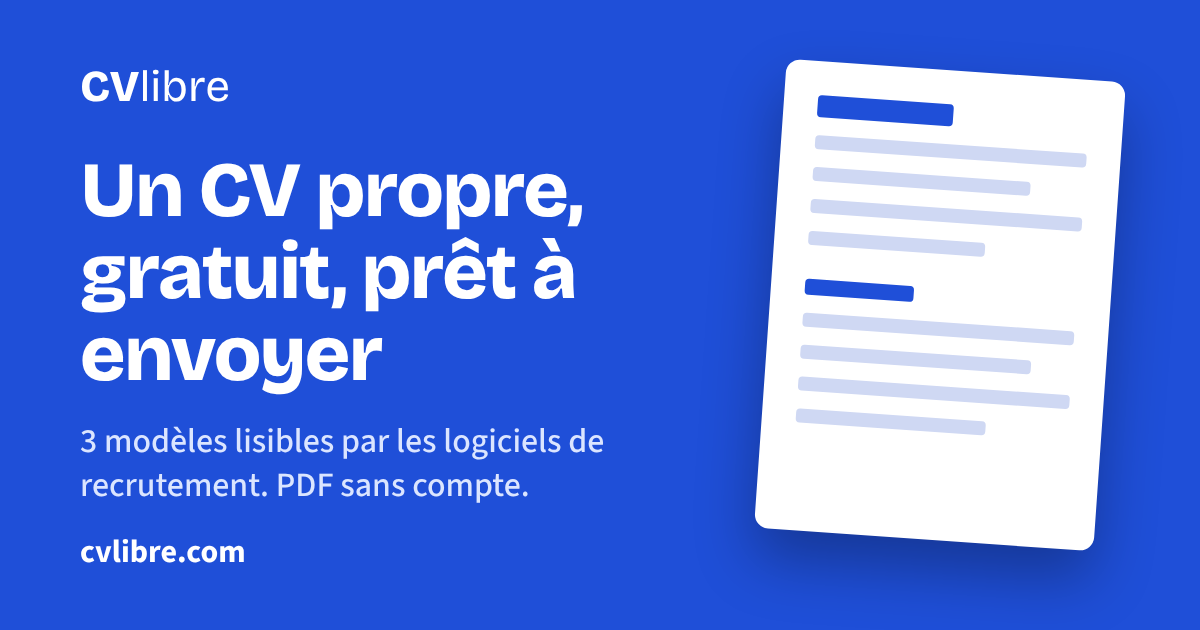
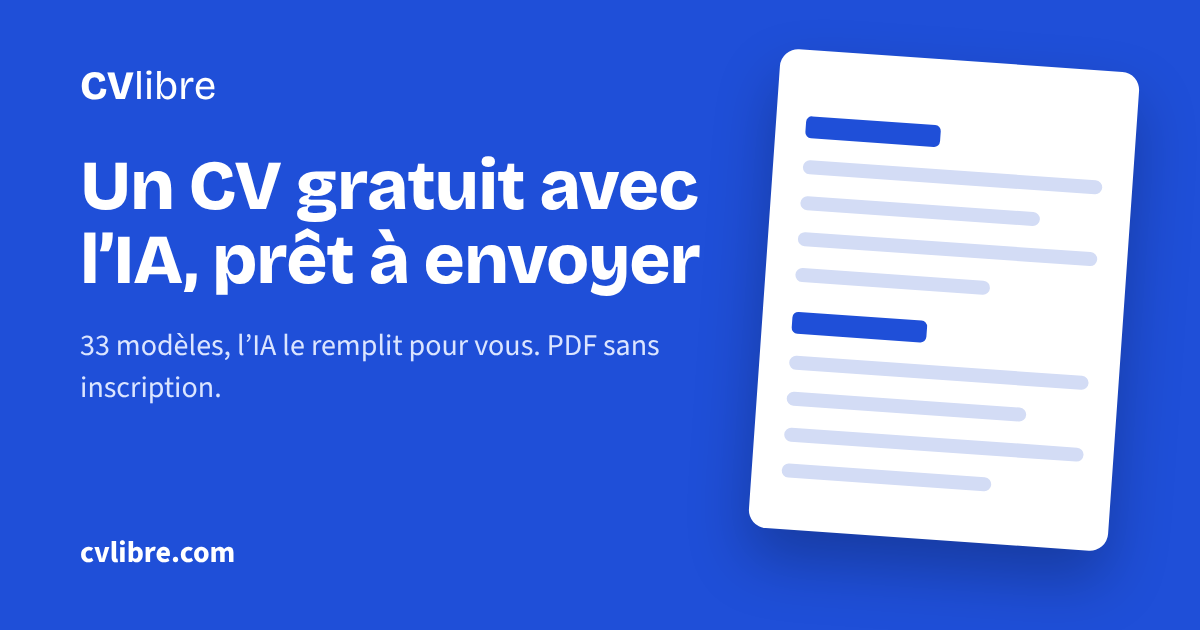
Images de partage : version anglaise (og-en.png) et française à jour (33 modèles, IA)
Claude-Session: https://claude.ai/code/session_01C97iXcqBvxtjgHv4LhD2QB

diff --git a/en/cover-letter/index.html b/en/cover-letter/index.html
@@ -15,11 +15,11 @@
 <meta property="og:type" content="website">
 <meta property="og:url" content="https://cvlibre.com/en/cover-letter/">
 <meta property="og:locale" content="en_GB">
-<meta property="og:image" content="https://cvlibre.com/assets/og.png">
+<meta property="og:image" content="https://cvlibre.com/assets/og-en.png">
 <meta property="og:image:width" content="1200">
 <meta property="og:image:height" content="630">
 <meta name="twitter:card" content="summary_large_image">
-<meta name="twitter:image" content="https://cvlibre.com/assets/og.png">
+<meta name="twitter:image" content="https://cvlibre.com/assets/og-en.png">
 <meta name="theme-color" content="#f3f5f8">
 <link rel="stylesheet" href="/assets/style.css?v=20261113e">
 <link rel="stylesheet" href="/assets/cv.css?v=20261113b">

diff --git a/en/legal-notice/index.html b/en/legal-notice/index.html
@@ -15,11 +15,11 @@
 <meta property="og:type" content="website">
 <meta property="og:url" content="https://cvlibre.com/en/legal-notice/">
 <meta property="og:locale" content="en_GB">
-<meta property="og:image" content="https://cvlibre.com/assets/og.png">
+<meta property="og:image" content="https://cvlibre.com/assets/og-en.png">
 <meta property="og:image:width" content="1200">
 <meta property="og:image:height" content="630">
 <meta name="twitter:card" content="summary_large_image">
-<meta name="twitter:image" content="https://cvlibre.com/assets/og.png">
+<meta name="twitter:image" content="https://cvlibre.com/assets/og-en.png">
 <meta name="theme-color" content="#f3f5f8">
 <link rel="stylesheet" href="/assets/style.css?v=20261113e">
 <link rel="stylesheet" href="/assets/cv.css?v=20261113b">

diff --git a/en/cv-builder/index.html b/en/cv-builder/index.html
@@ -15,11 +15,11 @@
 <meta property="og:type" content="website">
 <meta property="og:url" content="https://cvlibre.com/en/cv-builder/">
 <meta property="og:locale" content="en_GB">
-<meta property="og:image" content="https://cvlibre.com/assets/og.png">
+<meta property="og:image" content="https://cvlibre.com/assets/og-en.png">
 <meta property="og:image:width" content="1200">
 <meta property="og:image:height" content="630">
 <meta name="twitter:card" content="summary_large_image">
-<meta name="twitter:image" content="https://cvlibre.com/assets/og.png">
+<meta name="twitter:image" content="https://cvlibre.com/assets/og-en.png">
 <meta name="theme-color" content="#f3f5f8">
 <link rel="stylesheet" href="/assets/style.css?v=20261113e">
 <link rel="stylesheet" href="/assets/cv.css?v=20261113b">

diff --git a/en/privacy/index.html b/en/privacy/index.html
@@ -15,11 +15,11 @@
 <meta property="og:type" content="website">
 <meta property="og:url" content="https://cvlibre.com/en/privacy/">
 <meta property="og:locale" content="en_GB">
-<meta property="og:image" content="https://cvlibre.com/assets/og.png">
+<meta property="og:image" content="https://cvlibre.com/assets/og-en.png">
 <meta property="og:image:width" content="1200">
 <meta property="og:image:height" content="630">
 <meta name="twitter:card" content="summary_large_image">
-<meta name="twitter:image" content="https://cvlibre.com/assets/og.png">
+<meta name="twitter:image" content="https://cvlibre.com/assets/og-en.png">
 <meta name="theme-color" content="#f3f5f8">
 <link rel="stylesheet" href="/assets/style.css?v=20261113e">
 <link rel="stylesheet" href="/assets/cv.css?v=20261113b">

diff --git a/en/support/index.html b/en/support/index.html
@@ -15,11 +15,11 @@
 <meta property="og:type" content="website">
 <meta property="og:url" content="https://cvlibre.com/en/support/">
 <meta property="og:locale" content="en_GB">
-<meta property="og:image" content="https://cvlibre.com/assets/og.png">
+<meta property="og:image" content="https://cvlibre.com/assets/og-en.png">
 <meta property="og:image:width" content="1200">
 <meta property="og:image:height" content="630">
 <meta name="twitter:card" content="summary_large_image">
-<meta name="twitter:image" content="https://cvlibre.com/assets/og.png">
+<meta name="twitter:image" content="https://cvlibre.com/assets/og-en.png">
 <meta name="theme-color" content="#f3f5f8">
 <link rel="stylesheet" href="/assets/style.css?v=20261113e">
 <link rel="stylesheet" href="/assets/cv.css?v=20261113b">

diff --git a/en/terms/index.html b/en/terms/index.html
@@ -15,11 +15,11 @@
 <meta property="og:type" content="website">
 <meta property="og:url" content="https://cvlibre.com/en/terms/">
 <meta property="og:locale" content="en_GB">
-<meta property="og:image" content="https://cvlibre.com/assets/og.png">
+<meta property="og:image" content="https://cvlibre.com/assets/og-en.png">
 <meta property="og:image:width" content="1200">
 <meta property="og:image:height" content="630">
 <meta name="twitter:card" content="summary_large_image">
-<meta name="twitter:image" content="https://cvlibre.com/assets/og.png">
+<meta name="twitter:image" content="https://cvlibre.com/assets/og-en.png">
 <meta name="theme-color" content="#f3f5f8">
 <link rel="stylesheet" href="/assets/style.css?v=20261113e">
 <link rel="stylesheet" href="/assets/cv.css?v=20261113b">

diff --git a/en/index.html b/en/index.html
@@ -15,11 +15,11 @@
 <meta property="og:type" content="website">
 <meta property="og:url" content="https://cvlibre.com/en/">
 <meta property="og:locale" content="en_GB">
-<meta property="og:image" content="https://cvlibre.com/assets/og.png">
+<meta property="og:image" content="https://cvlibre.com/assets/og-en.png">
 <meta property="og:image:width" content="1200">
 <meta property="og:image:height" content="630">
 <meta name="twitter:card" content="summary_large_image">
-<meta name="twitter:image" content="https://cvlibre.com/assets/og.png">
+<meta name="twitter:image" content="https://cvlibre.com/assets/og-en.png">
 <meta name="theme-color" content="#f3f5f8">
 <link rel="stylesheet" href="/assets/style.css?v=20261113e">
 <link rel="stylesheet" href="/assets/cv.css?v=20261113b">

diff --git a/tools/i18n/en_pages.py b/tools/i18n/en_pages.py
@@ -34,11 +34,11 @@ def head(title, desc, path, fr=None, extra="", ld=None, robots="index, follow"):
 <meta property="og:type" content="website">
 <meta property="og:url" content="{url}">
 <meta property="og:locale" content="en_GB">
-<meta property="og:image" content="https://cvlibre.com/assets/og.png">
+<meta property="og:image" content="https://cvlibre.com/assets/og-en.png">
 <meta property="og:image:width" content="1200">
 <meta property="og:image:height" content="630">
 <meta name="twitter:card" content="summary_large_image">
-<meta name="twitter:image" content="https://cvlibre.com/assets/og.png">
+<meta name="twitter:image" content="https://cvlibre.com/assets/og-en.png">
 <meta name="theme-color" content="#f3f5f8">
 <link rel="stylesheet" href="/assets/style.css?v=20261113e">
 <link rel="stylesheet" href="/assets/cv.css?v=20261113b">
